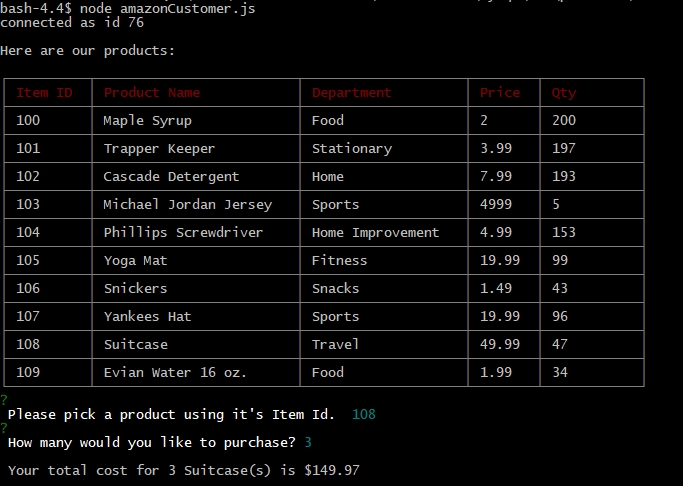
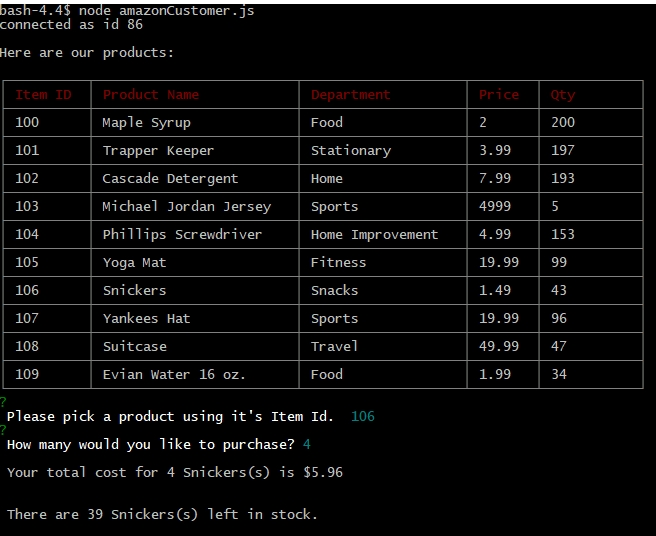
now shows qty left

Changed region(s): [[0.0, 0.0926, 1.0, 0.9877], [0.0, 0.0, 1.0, 0.0617], [0.5183, 0.8333, 0.5488, 0.8642]]

diff --git a/amazonCustomer.js b/amazonCustomer.js
@@ -20,7 +20,7 @@ connection.connect(function (err) {
     if (err) throw err;
     console.log("connected as id " + connection.threadId + "\n");
     showProducts()
- 
+
 })
 
 var showProducts = function () {
@@ -42,47 +42,52 @@ var showProducts = function () {
             console.log(displayTable.toString());
             // connection.end();
             inquirer.prompt([
-                    {
-                        name: "item",
-                        type: "input",
-                        message: "\n Please pick a product using it's Item Id. ",
-                        validate: function (value) {
-                            if (isNaN(value) === false) {
-                                return true;
-                            }
-                            return false;
+                {
+                    name: "item",
+                    type: "input",
+                    message: "\n Please pick a product using it's Item Id. ",
+                    validate: function (value) {
+                        if (isNaN(value) === false) {
+                            return true;
                         }
-                    },
-                    {
-                        name: "Quantity",
-                        type: "input",
-                        message: "\n How many would you like to purchase?",
-                        filter: Number
+                        return false;
                     }
-                ]).then(function(answers){
-                    var stockLeft = answers.Quantity;
-                    var itemID = answers.item;
-                    orderOutput(itemID, stockLeft);
-                });
+                },
+                {
+                    name: "Quantity",
+                    type: "input",
+                    message: "\n How many would you like to purchase?",
+                    filter: Number
+                }
+            ]).then(function (answers) {
+                var stockLeft = answers.Quantity;
+                var itemID = answers.item;
+                orderOutput(itemID, stockLeft);
+            });
         }
 
     });
 }
 // Tells the customer if there is enough product to order
 // If there is enough there total is calculated and outputed
-function orderOutput(item, numOrdered){
-	connection.query('Select * FROM products WHERE item_id =' + item, function(err,res){
-		if(err){console.log(err)};
-		if(numOrdered <= res[0].stock_quantity){
-			var finalPrice = res[0].price * numOrdered;
-            
+function orderOutput(item, numOrdered) {
+    connection.query('Select * FROM products WHERE item_id =' + item, function (err, res) {
+        if (err) { console.log(err) };
+        if (numOrdered <= res[0].stock_quantity) {
+            // calculates the final cost of the order
+            // calculates the num of items left in stock after the purchase
+            var finalPrice = res[0].price * numOrdered;
+            var itemsLeft = res[0].stock_quantity - numOrdered;
+
             console.log("\n Your total cost for " + numOrdered + " " + res[0].product_name + "(s)" + " is " + "$" + finalPrice + "\n");
 
-			connection.query("UPDATE products SET stock_quantity = stock_quantity - " + numOrdered + "WHERE item_id = " + item);
-		} else{
-			console.log("Insufficient quantity of " + res[0].product_name + "to complete your order.");
-		};
-		
+            connection.query("UPDATE products SET stock_quantity = stock_quantity - " + numOrdered + "WHERE item_id = " + item);
+
+            console.log("\n There are " +  itemsLeft + " " + res[0].product_name + "(s)" + " " + "left in stock." + "\n");
+        } else {
+            console.log("Insufficient quantity of " + res[0].product_name + "to complete your order.");
+        };
+
     });
 };
 
